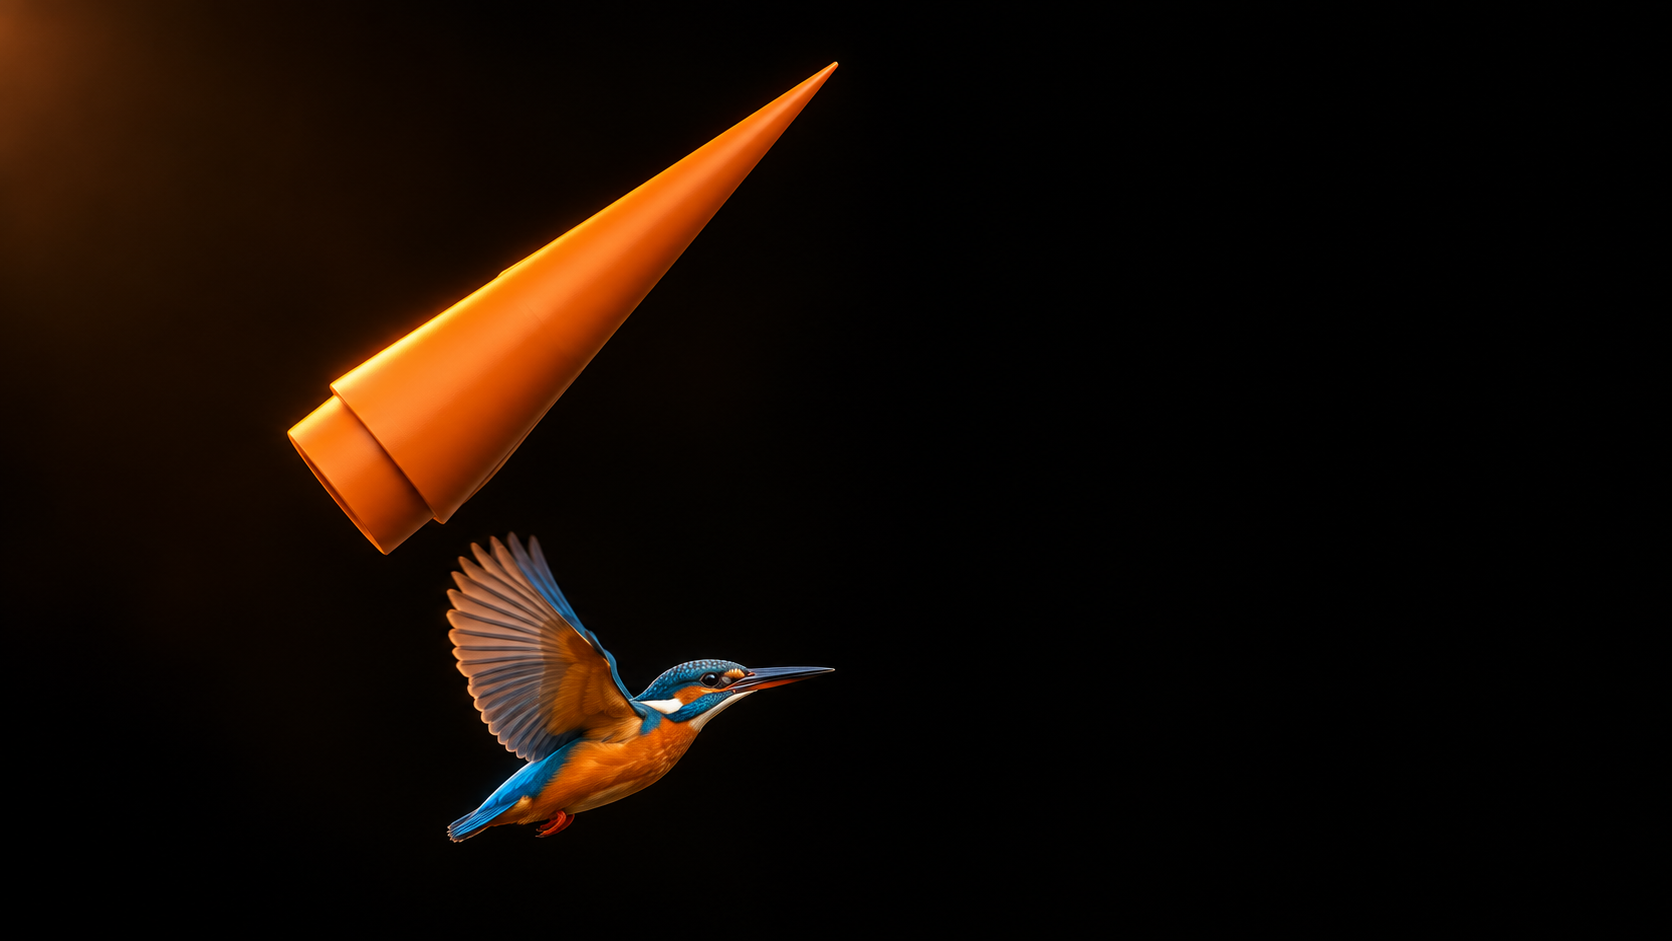
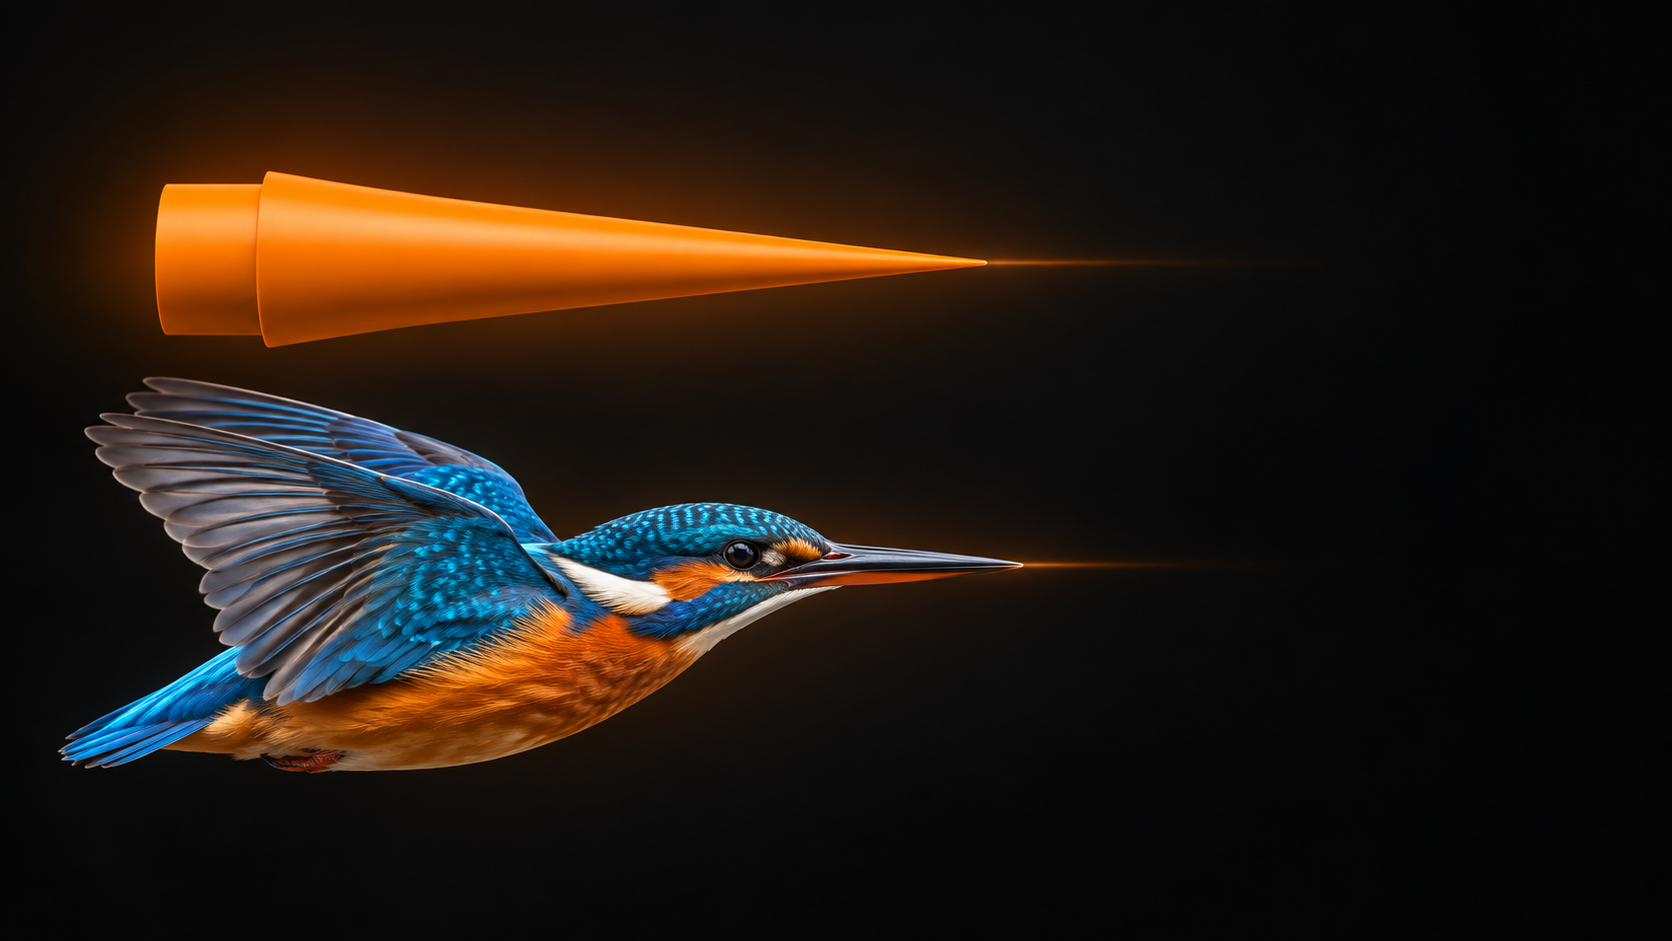
Align STL ojiva hero with kingfisher beak

diff --git a/assets/readme/ASSET_NOTES.md b/assets/readme/ASSET_NOTES.md
@@ -1,7 +1,7 @@
 # README assets
 
 - `ojiva-alcedo-hero.png`: editorial illustration for the repository header. It is illustrative only and does not replace the CAD files or constitute aerodynamic evidence.
-- `ojiva-alcedo-hero-v2.png`: README header artwork. Its ojiva form is based on a direct render of the released STL; the flying *Alcedo atthis* is illustrative biological context. Neither image is technical or aerodynamic evidence.
+- `ojiva-alcedo-hero-v2.png`: README header artwork. Its ojiva form is based on a direct render of the released STL and is composed parallel to a flying *Alcedo atthis* beak to communicate the biological inspiration. The bird and artwork are illustrative context, not technical or aerodynamic evidence.
 - `ojiva-alcedo-icon.png`: project icon used at the top of both README files.
 
 Both assets are original project documentation media and are released under CC-BY-SA-4.0, as specified in the repository [LICENSE](../../LICENSE.md).

diff --git a/README.md b/README.md
@@ -33,7 +33,7 @@ Open hardware research project by SpaceNL for a biomimetic experimental-rocketry
 - Manufacturing mesh: binary STL with 12,948 triangles.
 - Measured STL envelope: approximately 50.47 x 52.10 x 200.00 mm.
 - Documented prototype material: PLA, using 1.75 mm filament.
-- Published, immutable Git revision: [`v1.1.1`](https://github.com/aurelioasu/bio-geometria-espacial-ojiva-alcedo-atthis-spacenl/tree/v1.1.1).
+- Published, immutable Git revision: [`v1.1.2`](https://github.com/aurelioasu/bio-geometria-espacial-ojiva-alcedo-atthis-spacenl/tree/v1.1.2).
 
 > **Configuration control.** The source report describes a 134.5 mm-long prototype with a 50.2 mm base, whereas the published STL has a 200 mm envelope length. This is unresolved. Confirm the intended CAD revision and units in Fusion 360 or the slicer before fabrication, testing, or certification.
 

diff --git a/docs/oshwa/CHECKLIST_OSHWA.md b/docs/oshwa/CHECKLIST_OSHWA.md
@@ -17,7 +17,7 @@
 - [ ] Resolucion de la discrepancia de longitud 134.5 mm frente a 200 mm del STL.
 - [ ] Confirmacion de que no faltan archivos auxiliares bajo control del titular (ensamble, dibujos, configuraciones de impresion o estudios de Fusion 360).
 - [x] URL publica definitiva: `https://github.com/aurelioasu/bio-geometria-espacial-ojiva-alcedo-atthis-spacenl`.
-- [x] Revision inmutable publicada: etiqueta Git `v1.1.1`.
+- [x] Revision inmutable publicada: etiqueta Git `v1.1.2`.
 - [ ] Datos de la persona/entidad certificante, correo de contacto y pais para el formulario.
 - [ ] Revision de marca: no incluir logotipo OSHWA antes del UID.
 - [ ] Envio de la solicitud y aceptacion del acuerdo de licencia de marca OSHWA por una persona autorizada.

diff --git a/RELEASE_NOTES.md b/RELEASE_NOTES.md
@@ -1,5 +1,10 @@
 # Notas de version
 
+## v1.1.2 - 2026-09-14
+
+- Mejora la composición de portada: la ojiva derivada del STL y el pico del martín pescador en vuelo están alineados en paralelo para hacer visible la referencia biomimética.
+- Conserva exclusivamente la base cilíndrica lisa de la geometría publicada, sin soportes ni elementos temporales de impresión.
+
 ## v1.1.1 - 2026-09-14
 
 - Sustituye la portada del README por una composición naranja y negra basada en la geometría del STL publicado.
